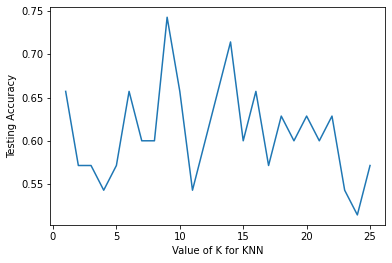
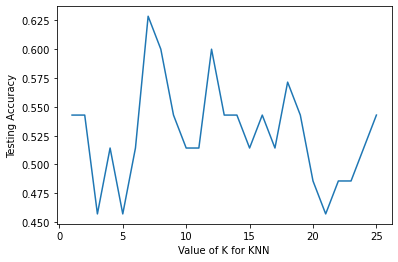
Update documentation

diff --git a/searchindex.js b/searchindex.js
@@ -1,1 +1,1 @@
-Search.setIndex({docnames:["Tugas1","Tugas2","Tugas3","Tugas4","Tugas5","Tugas6","UTS","intro","markdown","markdown-notebooks","notebooks"],envversion:{"sphinx.domains.c":2,"sphinx.domains.changeset":1,"sphinx.domains.citation":1,"sphinx.domains.cpp":5,"sphinx.domains.index":1,"sphinx.domains.javascript":2,"sphinx.domains.math":2,"sphinx.domains.python":3,"sphinx.domains.rst":2,"sphinx.domains.std":2,"sphinx.ext.intersphinx":1,"sphinxcontrib.bibtex":9,sphinx:56},filenames:["Tugas1.ipynb","Tugas2.ipynb","Tugas3.ipynb","Tugas4.ipynb","Tugas5.ipynb","Tugas6.ipynb","UTS.ipynb","intro.md","markdown.md","markdown-notebooks.md","notebooks.ipynb"],objects:{},objnames:{},objtypes:{},terms:{"0":[0,1,2,3,4,5,6,10],"000":3,"009651":6,"06405":6,"1":[1,2,3,4,5,6,7,10],"10":[0,2,6,10],"100":[0,2,3,10],"101":[0,2],"102":[0,2],"103":[0,2],"104":[0,2],"105":[0,2],"106":[0,2],"107":[0,2],"108":[0,2],"109":[0,2],"11":[0,2,3,6],"110":[0,2],"111":[0,2,6],"111111":6,"112":[0,2,6],"113":[0,2,6],"114":[0,2,6],"115":[0,2,6],"116":[0,2,6],"117":[0,2],"118":[0,2],"119":[0,2],"12":[0,1,2,6],"120":[0,2],"1206":6,"1207":6,"1208":6,"1209":6,"121":[0,2],"1210":6,"122":[0,2],"123":[0,2],"124":[0,2],"124670":6,"125":[0,2],"126":[0,2],"127":[0,2],"128":[0,2],"129":[0,2],"13":[0,2,6],"14":[0,2,6],"145":1,"146":1,"147":1,"148":1,"149":1,"15":[0,2,6],"150":[0,1,2],"16":[0,2,3,6],"169560":6,"17":[0,2,6],"18":[0,2,3,6],"19":[0,2,6],"19680801":10,"2":[0,2,3,4,5,6,7,9],"20":[0,2,6],"2014":8,"21":[0,2,6],"214":[0,2],"22":[0,2,6],"220":6,"226":6,"23":[0,2,6],"24":[0,2,6],"25":[0,2,6],"26":[0,2,6],"27":[0,2],"27715":6,"28":[0,2],"29":[0,2],"296":1,"2989999999999995":1,"3":[0,1,3,4,5,6,7],"30":[0,2,6],"300":6,"31":[0,2],"32":[0,2],"33":[0,2],"33333333":[0,2],"34":[0,2],"35":[0,1,2,6],"36":[0,2],"367521":6,"37":[0,2],"37648":6,"38":[0,2],"39":[0,1,2],"390143b688c7":6,"3f":3,"4":[0,1,2,4,5,6,7,9,10],"40":[0,2],"41":[0,1,2],"417":6,"418":[0,2],"42":[0,2],"42857142857142855":[],"429285":6,"43":[0,1,2],"432040":6,"44":[0,2],"45":[0,1,2],"451":6,"45714285714285713":[],"46":[0,2],"467409":6,"468":6,"47":[0,2],"48":[0,2,6],"4857142857142857":[],"49":[0,2],"498":6,"5":[0,1,2,3,5,6,7,10],"50":[0,1,2],"500000":6,"51":[0,2],"5142857142857142":6,"52":[0,2],"53":[0,2],"54":[0,2],"5428571428571428":6,"549":6,"55":[0,2],"554":6,"56":[0,2],"56666667":[0,2],"57":[0,2],"5714285714285714":6,"57635":6,"58":[0,2],"59":[0,2],"6":[0,1,2,3,4,6,7],"60":[0,2,6],"60666667":[0,2],"61":[0,2],"612725":6,"62":[0,2],"62666667":[0,2],"6285714285714286":6,"63":[0,2],"63333333":[0,2],"64":[0,2],"64666667":[0,2],"65":[0,2],"651":[0,2],"6571428571428571":6,"66":[0,2],"67":[0,2],"68":[0,2,6],"6857142857142857":[],"69":[0,2],"690495":6,"697":6,"6994":6,"6f9306ad21398ea43cba4f7d537619d0e07d5ae3":[0,1,2],"7":[0,1,2,3,4,5,6],"70":[0,2,6],"702400":6,"706897":6,"707":6,"71":[0,2],"7142857142857143":6,"72":[0,2],"729":[0,2],"73":[0,2],"74":[0,2],"7428571428571429":6,"75":[0,2],"76":[0,2],"761":[0,2],"76600":6,"77":[0,2,6],"773":6,"774":[0,2],"78":[0,2],"786":6,"79":[0,2],"8":[0,1,2,6],"80":[0,2],"805386":6,"8071":6,"81":[0,2,6],"819240":6,"82":[0,2,6],"83":[0,2,6],"84":[0,2],"8438":6,"85":[0,2,6],"858":6,"859":6,"86":[0,2,6],"860":6,"861":6,"862":6,"87":[0,2],"87333333":[0,2],"88":[0,2],"8827":6,"8836201":[0,1,2],"88666667":[0,2],"89":[0,2],"89333333":[0,2],"9":[0,1,2,3,4,5,6],"90":[0,2],"90666667":[0,2],"91":[0,2,6],"91333333":[0,2],"92":[0,2,6],"920":6,"92666667":[0,2],"928":6,"93":[0,2],"93333333":[0,2],"9393":6,"94":[0,2],"94666667":[0,2],"95":[0,2],"95333333":[0,2],"96":[0,2],"9666666666666667":[0,2],"9666666666666668":[0,2],"96666667":[0,2],"97":[0,2],"972":[0,2],"97333333":[0,2],"98":[0,2],"9800000000000001":[0,2],"99":[0,2],"99585":6,"\ud835\udeba_i":[],"class":[1,3],"default":9,"do":[8,10],"function":8,"import":[0,1,2,3,4,5,6,10],"new":[0,2],"return":[0,2],"true":[3,6],A:1,As:10,But:10,For:[8,10],If:9,In:8,It:[7,8],One:[0,2],That:9,The:[0,2,8,9],There:10,With:9,_base:[0,2],_classif:[0,2],_export:6,_n:5,_passthrough_scor:[0,2],_score:[0,2],_scorer:[0,2],_search:[0,2],_valid:[0,2],about:[8,9,10],acc_gaussian:3,accept:8,accuraci:[0,2,3,6],accuracy_na:3,accuracy_nb:3,accuracy_scor:[0,2,3,6],ada:6,adalah:[1,6],add_:10,adiponectin:6,ag:6,akan:6,akura:6,akurasi:6,algoritma:6,align:10,all:[0,2,8,9],all_or_ani:6,allow:8,also:[8,9,10],an:[6,8],analisa:6,ani:[7,9],antara:3,append:6,ar:[0,2,8,9],arang:[0,2],archiv:6,arg:[0,2],arrai:[0,2,3,10],atau:6,atribut:[1,6],attribut:6,aturan:6,auditori:8,australia:8,averag:[0,2,3],ax:10,b:1,bagi:6,baik:6,banyak:6,banyaknya:1,baru:6,base:[0,2,6,9],basi:1,bata:1,bay:7,beberapa:1,been:[0,1,2,3,4],begin:10,begitu:6,being:8,bentuk:6,bersyarat:6,bertip:1,best_params_:[0,2],best_score_:[0,2],between:6,biaya:6,bib:8,bibliographi:8,bibtex:8,block:9,bmi:6,book:[1,6,8,9,10],both:8,box:8,breast:6,brian:8,brisban:8,build:8,built:9,bundl:7,c:1,cabang:6,call:[0,2,6,8],can:[8,9,10],cancer:6,cancer_tre:6,cara:6,carilah:1,categori:[0,2],check:[0,1,2,3,4,7,10],check_is_fit:6,christoph:8,cite:8,class_nam:6,classif:6,classifi:[0,2,6],classification_report:3,clf:6,cluster:7,cm:[3,10],cmap:10,code:[8,9],cognit:8,coimbra:6,cold:10,color:10,column:[0,1,2,3,6],com:[0,1,2],command:9,commonmark:8,confer:8,confus:3,confusion_matrix:3,content:[3,4,5,6,7,8,9],convert:9,coolwarm:10,cortex:8,covert:6,creat:[0,2,10],cross_val_scor:[0,2,3],csv:[0,1,2,3,4,5,6],custom_lin:10,cut:1,cv:[0,2],cv_score:[0,2],cycler:10,d:[0,1,2,9],dalam:6,dan:[1,3,6],dapat:6,dari:[1,6],data:[0,1,2,3,4,5,6,10],data_kp:6,datafram:[0,2],datamin:[3,4,5,6],datar2:6,dataset:[0,2,6],daya:6,de:8,decis:7,decision_tre:6,decisiontreeclassifi:[3,6],defin:9,dengan:[1,6],depend:8,depth:7,desis:6,detail:[0,2,9],df:[0,2,3,4,5],di:6,diata:6,dibagian:6,dictionari:[0,2],differ:8,dijalankan:6,dilakukan:1,dilaporkan:6,dilihat:6,direct:9,diskritisasi:7,displai:9,dissimilar:7,dist:[0,2,6],diupload:[1,6],document:[7,8,9,10],doe:[6,7],dollar:10,dot:6,drive:[3,4,5,6],drop:[0,2,3],dtype:[0,1,2,6],e_initi:1,e_new:1,each:[0,2],ecosystem:8,edu:6,emb:10,end:10,ensembl:3,entropi:1,escap:10,estim:[0,2,6],etc:10,evid:8,exampl:[8,10],except:[0,2],execut:9,expect:[0,2],export_graphviz:6,extens:8,f1:3,f1_score:3,f:1,fail:[0,2],fals:6,featur:6,feature_nam:6,feel:7,few:7,fig:10,figsiz:10,file:[0,2,6,7,9],fill:6,finit:[0,2],first:[0,2],fit:[0,2,3,6],fit_transform:3,fitur:[3,6],fix:10,flavor:8,folder:6,follow:[8,9],fontnam:6,format:[0,2],from:[0,2,3,6,10],frontier:8,fungsi:6,gain:1,gambar:6,gaussian:3,gaussiannb:3,get:[8,9],gist:[0,1,2],github:[1,6],githubusercont:[0,1,2],give:7,glucos:6,go:7,graph:6,gridsearch:[0,2],gridsearchcv:[0,2],guid:10,gunakan:6,ha:[0,1,2,3,4],hasattr:6,hasil:6,have:[6,9],hdhpk14:8,head:[0,2,3,4,5,6],heer:8,help:8,here:[8,10],holdgraf:8,holdgraf_evidence_2014:8,homa:6,hot:10,how:[7,9],html:10,http:[0,1,2,6],human:8,i:1,ic:6,id:[3,4,5],ii:10,iloc:3,imag:[6,10],implementasi:6,impur:6,includ:[9,10],inform:[7,9,10],informasi:1,init:9,inlin:[6,8],inplac:3,input:[6,8],insert:8,instanc:6,instruct:9,insulin:6,int64:[1,6],interact:10,intern:8,ion:10,ipynb:8,ipython:6,iri:[0,1,2,3,4,5],iris_tre:6,jika:6,jumlah:1,jupyt:[1,6,8,9,10],jupyterbook:8,jupytext:9,just:8,k:[1,6,7],k_rang:6,kanker:6,karena:6,kategorik:1,ke:6,kedekatan:6,keep:10,kemiripan:6,kemudian:6,kemungkinan:6,keputusan:6,kernel:9,ketidakpastian:1,ketika:6,kfold:3,kind:8,kiri:6,klasifikasi:[6,7],klassifikasi:1,kneighbor:[0,2],kneighborsclassifi:[0,2,3,6],knight:8,knn2:[0,2],knn:[0,2,7],knn_cv:[0,2],knn_gscv:[0,2],kolom:1,konsekuensi:6,konsepnya:6,kwarg:[0,2],la_:10,label:6,labelencod:3,lain:6,lakukan:[1,6],langkah:6,languag:8,last:[0,2,6],lb:3,learn:6,leaves_parallel:6,lebih:6,legend:10,length:[0,1,2,6],leptin:6,let:9,lib:[0,2,6],like:[8,9],line2d:10,line:[0,2,8,9,10],linear_model:3,linearsvc:3,link:1,linspac:10,ll:8,local:[0,2,6],log_2:1,logisticregress:3,logspac:10,lot:[8,10],lw:10,machin:6,major:7,maka:6,make:10,make_scor:3,mani:[8,9],markdown:[],markdownfil:9,markedli:8,markup:8,math:10,matplotlib:[6,10],matrix:3,max:1,max_depth:6,maxdata:1,mbox:10,mcp:6,md:[8,9],mean:[0,2,7,10],medium:10,melatih:6,melihat:6,meliputi:6,membaca:[5,6],membagi:6,membuat:6,memecah:3,memisahkan:6,memodelkan:6,memperhatikan:6,menampilkan:[5,6],mencari:6,mengarah:6,mengecek:6,menggunakan:6,mengkategorikan:1,mengubah:1,mengubahnya:6,menguntungkan:6,menjadi:[1,6],menunjukkan:1,menyajikan:6,menyimpannya:6,metod:7,metric:[0,2,3,6],mewakili:6,micro:3,min:1,mindata:1,ml:6,model:[0,2,3,6],model_select:[0,2,3,6],modul:6,more:[0,2,7,9,10],moreov:8,most:[0,2,6,8],msg:6,must:8,mydriv:[3,4,5,6],myst:[],n:[1,3,8,10],n_neighbor:[0,2,6],n_sampl:[0,2],n_samples_fit:[0,2],naiv:7,naive_bay:3,nama:6,name:[1,6],nan:[0,2],need:9,neigh_dist:[0,2],neigh_ind:[0,2],neighbor:[0,2,3,6],netj:[0,1,2],neurosci:8,nilai:1,node_id:6,non:[0,2],none:6,note:8,notebook:8,np:[0,1,2,10],numerik:1,numpi:[0,1,2,10],object:[0,2],objek:6,off:[7,8,9],one:8,org:8,other:9,our:[0,2],out:[7,10],out_fil:6,output:9,overview:8,own_fil:6,p_i:[1,5],packag:[0,2,6],pada:6,page:[7,8,9],panda:[0,1,2,3,4,5,6],param_grid:[0,2],paramet:[0,2],particular:7,partit:[0,2],paslei:8,path:9,pd:[0,1,2,3,4,5,6],pengambilan:6,pengecekan:6,perform:[0,2],pernyataan:6,perubahan:1,petal:[0,1,2],petallengthcm:[3,4,5],petalwidthcm:[3,4,5],plot:[6,10],plt:[6,10],pohon:6,post:10,power:8,precis:[3,6],precision_na:3,precision_scor:3,predict:[0,2,3,6,8],prediksi:6,preprocess:3,presenc:9,print:[0,2,3,6,9],prop_cycl:10,properli:[0,1,2,3,4,8],proport:6,prose:[1,6],purpos:8,py:[0,2,6],pyplot:[6,10],python3:[0,2,6],q:1,qcut:1,rais:6,ramsai:8,randn:10,random:10,random_st:[0,2,3],randomforestclassifi:3,rang:[6,10],raw:[0,1,2],rcparam:10,read:[0,1,2,3,4],read_csv:[0,1,2,3,4,5,6],recal:3,recall_na:3,recall_scor:3,recent:[0,2,6],refer:8,regular:8,relationship:6,remov:[0,2],render:8,rentangnya:1,reproduc:10,resiko:6,resistin:6,rest:9,return_str:6,robert:8,rotat:6,round:[3,6],row:1,rumu:5,run:9,s:[6,8,9,10],sama:1,same:8,sampai:6,sampl:[7,10],sample_weight:[0,2],score:[0,2,3,6],score_na:3,scorer:[0,2],scores_list:6,sebelah:6,sebuah:6,see:[7,8,9,10],seed:10,sehingga:1,select:3,self:[0,2],sepal:[0,1,2],sepallengthcm:[3,4,5],sepalwidthcm:[3,4,5],separ:[0,2],seperangkat:6,seperti:6,serv:8,set:[0,2,6],setelah:6,setosa:[0,1,2,3,4,5],sgdclassifi:3,shape:[0,2,6],should:9,show:[0,2,7,8,9],sigma_1:5,sign:10,similar:8,simpl:8,sklearn:[0,2,3,6],slight:8,small:[7,8],so:9,some:[7,8,10],span:8,speci:[3,4,5],special:8,special_charact:6,specif:8,sphinx:8,split:[0,2,3],stand:8,start:[8,9],starter:8,state:10,stati:1,store:8,stratifi:[0,2],structur:[7,8],struktur:6,subplot:10,sumber:6,support:9,sure:10,svc:3,svm:3,syntax:8,t:[8,10],target:[0,2],terata:[5,6],terdekat:6,terhadap:6,tersebut:1,tertinggi:6,test:[0,2,3,6],test_siz:[0,2,3,6],tetangga:6,tex:10,text:[6,8,9],thei:8,them:[0,2],thi:[0,2,7,8,9,10],thing:9,those:8,tidak:6,tingkatan:1,tool:8,top:[0,2,9],topic:7,traceback:[0,2],train:[0,2,3,6],train_test_split:[0,2,3,6],treat:9,tree:[3,7],tuga:6,two:[8,9],type:7,typeerror:6,typeerrortraceback:6,uci:6,ukuran:1,understand:9,unduh:6,untuk:6,us:[0,1,2,3,4,8,9],userwarn:[0,2,6],usr:[0,2,6],ut:7,util:6,utilita:6,v_i:1,valid:6,valu:[0,2,3,6],value_count:1,valueerror:[0,2],variabel:6,variabl:[0,2],variat:8,varieti:[0,1,2],versicolor:[0,2],view:[0,2],virginica:[0,1,2],w:1,wa:6,want:[0,2,10],we:[0,2],web:1,well:[7,10],wendi:8,when:[8,9],wherea:8,whether:8,which:9,width:[0,2],work:10,write:[8,9],written:[8,9],x:[0,1,2,3,6],x_max:1,x_min:1,x_new:6,x_test:[0,2,3,6],x_train:[0,2,3,6],xlabel:6,y:[0,2,3],y_pred:[3,6],y_predict:6,y_test:[0,2,3,6],y_train:[0,2,3,6],yang:[1,6],ylabel:6,you:[7,8,9,10],your:[8,9,10]},titles:["Dissimilarity (Tugas 1)","Diskritisasi (Tugas 2)","Klasifikasi (Tugas 3)","Naive Bayes (Tugas 4)","K-Means Clustering (Tugas 5)","Decision Tree (Tugas 6)","<strong>UTS</strong>","Welcome to your Jupyter Book","Markdown Files","Notebooks with MyST Markdown","Content with notebooks"],titleterms:{"1":0,"2":1,"3":2,"4":3,"5":4,"6":5,add:9,an:9,bay:3,bin:1,block:10,book:7,cell:9,citat:8,cluster:4,code:10,content:10,creat:9,decis:[5,6],direct:8,diskritisasi:1,dissimilar:0,entrophi:1,equal:1,exampl:9,file:8,frequenc:1,gini:5,index:5,interv:1,jupyt:7,k:4,klasifikasi:2,knn:6,learn:8,markdown:[8,9,10],mean:4,metadata:9,metod:6,more:8,myst:[8,9,10],naiv:3,notebook:[9,10],output:10,quickli:9,role:8,sampl:8,soal:6,tree:[5,6],tuga:[0,1,2,3,4,5,7],ut:6,welcom:7,what:8,width:1,yaml:9,your:7}})
+Search.setIndex({docnames:["Tugas1","Tugas2","Tugas3","Tugas4","Tugas5","Tugas6","UTS","intro","markdown","markdown-notebooks","notebooks"],envversion:{"sphinx.domains.c":2,"sphinx.domains.changeset":1,"sphinx.domains.citation":1,"sphinx.domains.cpp":5,"sphinx.domains.index":1,"sphinx.domains.javascript":2,"sphinx.domains.math":2,"sphinx.domains.python":3,"sphinx.domains.rst":2,"sphinx.domains.std":2,"sphinx.ext.intersphinx":1,"sphinxcontrib.bibtex":9,sphinx:56},filenames:["Tugas1.ipynb","Tugas2.ipynb","Tugas3.ipynb","Tugas4.ipynb","Tugas5.ipynb","Tugas6.ipynb","UTS.ipynb","intro.md","markdown.md","markdown-notebooks.md","notebooks.ipynb"],objects:{},objnames:{},objtypes:{},terms:{"0":[0,1,2,3,4,5,6,10],"000":3,"009651":6,"06405":6,"1":[1,2,3,4,5,6,7,10],"10":[0,2,6,10],"100":[0,2,3,10],"101":[0,2],"102":[0,2],"103":[0,2],"104":[0,2],"105":[0,2],"106":[0,2],"107":[0,2],"108":[0,2],"109":[0,2],"11":[0,2,3,6],"110":[0,2],"111":[0,2,6],"111111":6,"112":[0,2,6],"113":[0,2,6],"114":[0,2,6],"115":[0,2,6],"116":[0,2,6],"117":[0,2],"118":[0,2],"119":[0,2],"12":[0,1,2,6],"120":[0,2],"1206":6,"1207":6,"1208":6,"1209":6,"121":[0,2],"1210":6,"122":[0,2],"123":[0,2],"124":[0,2],"124670":6,"125":[0,2],"126":[0,2],"127":[0,2],"128":[0,2],"129":[0,2],"13":[0,2,6],"14":[0,2,6],"145":1,"146":1,"147":1,"148":1,"149":1,"15":[0,2,6],"150":[0,1,2],"16":[0,2,3,6],"169560":6,"17":[0,2,6],"18":[0,2,3,6],"19":[0,2,6],"19680801":10,"2":[0,2,3,4,5,6,7,9],"20":[0,2,6],"2014":8,"21":[0,2,6],"214":[0,2],"22":[0,2,6],"220":6,"226":6,"23":[0,2,6],"24":[0,2,6],"25":[0,2,6],"26":[0,2,6],"27":[0,2],"27715":6,"28":[0,2],"29":[0,2],"296":1,"2989999999999995":1,"3":[0,1,3,4,5,6,7],"30":[0,2,6],"300":6,"31":[0,2],"32":[0,2],"33":[0,2],"33333333":[0,2],"34":[0,2],"35":[0,1,2,6],"36":[0,2],"367521":6,"37":[0,2],"37648":6,"38":[0,2],"39":[0,1,2],"390143b688c7":6,"3f":3,"4":[0,1,2,4,5,6,7,9,10],"40":[0,2],"41":[0,1,2],"417":6,"418":[0,2],"42":[0,2],"42857142857142855":[],"429285":6,"43":[0,1,2],"432040":6,"44":[0,2],"45":[0,1,2],"451":6,"45714285714285713":6,"46":[0,2],"467409":6,"468":6,"47":[0,2],"48":[0,2,6],"4857142857142857":6,"49":[0,2],"498":6,"5":[0,1,2,3,5,6,7,10],"50":[0,1,2],"500000":6,"51":[0,2],"5142857142857142":6,"52":[0,2],"53":[0,2],"54":[0,2],"5428571428571428":6,"549":6,"55":[0,2],"554":6,"56":[0,2],"56666667":[0,2],"57":[0,2],"5714285714285714":6,"57635":6,"58":[0,2],"59":[0,2],"6":[0,1,2,3,4,6,7],"60":[0,2,6],"60666667":[0,2],"61":[0,2],"612725":6,"62":[0,2],"62666667":[0,2],"6285714285714286":6,"63":[0,2],"63333333":[0,2],"64":[0,2],"64666667":[0,2],"65":[0,2],"651":[0,2],"6571428571428571":[],"66":[0,2],"67":[0,2],"68":[0,2,6],"6857142857142857":[],"69":[0,2],"690495":6,"697":6,"6994":6,"6f9306ad21398ea43cba4f7d537619d0e07d5ae3":[0,1,2],"7":[0,1,2,3,4,5,6],"70":[0,2,6],"702400":6,"706897":6,"707":6,"71":[0,2],"7142857142857143":[],"72":[0,2],"729":[0,2],"73":[0,2],"74":[0,2],"7428571428571429":[],"75":[0,2],"76":[0,2],"761":[0,2],"76600":6,"77":[0,2,6],"773":6,"774":[0,2],"78":[0,2],"786":6,"79":[0,2],"8":[0,1,2,6],"80":[0,2],"805386":6,"8071":6,"81":[0,2,6],"819240":6,"82":[0,2,6],"83":[0,2,6],"84":[0,2],"8438":6,"85":[0,2,6],"858":6,"859":6,"86":[0,2,6],"860":6,"861":6,"862":6,"87":[0,2],"87333333":[0,2],"88":[0,2],"8827":6,"8836201":[0,1,2],"88666667":[0,2],"89":[0,2],"89333333":[0,2],"9":[0,1,2,3,4,5,6],"90":[0,2],"90666667":[0,2],"91":[0,2,6],"91333333":[0,2],"92":[0,2,6],"920":6,"92666667":[0,2],"928":6,"93":[0,2],"93333333":[0,2],"9393":6,"94":[0,2],"94666667":[0,2],"95":[0,2],"95333333":[0,2],"96":[0,2],"9666666666666667":[0,2],"9666666666666668":[0,2],"96666667":[0,2],"97":[0,2],"972":[0,2],"97333333":[0,2],"98":[0,2],"9800000000000001":[0,2],"99":[0,2],"99585":6,"\ud835\udeba_i":[],"class":[1,3],"default":9,"do":[8,10],"function":8,"import":[0,1,2,3,4,5,6,10],"new":[0,2],"return":[0,2],"true":[3,6],A:1,As:10,But:10,For:[8,10],If:9,In:8,It:[7,8],One:[0,2],That:9,The:[0,2,8,9],There:10,With:9,_base:[0,2],_classif:[0,2],_export:6,_n:5,_passthrough_scor:[0,2],_score:[0,2],_scorer:[0,2],_search:[0,2],_valid:[0,2],about:[8,9,10],acc_gaussian:3,accept:8,accuraci:[0,2,3,6],accuracy_na:3,accuracy_nb:3,accuracy_scor:[0,2,3,6],ada:6,adalah:[1,6],add_:10,adiponectin:6,ag:6,akan:6,akura:6,akurasi:6,algoritma:6,align:10,all:[0,2,8,9],all_or_ani:6,allow:8,also:[8,9,10],an:[6,8],analisa:6,ani:[7,9],antara:3,append:6,ar:[0,2,8,9],arang:[0,2],archiv:6,arg:[0,2],arrai:[0,2,3,10],atau:6,atribut:[1,6],attribut:6,aturan:6,auditori:8,australia:8,averag:[0,2,3],ax:10,b:1,bagi:6,baik:6,banyak:6,banyaknya:1,baru:6,base:[0,2,6,9],basi:1,bata:1,bay:7,beberapa:1,been:[0,1,2,3,4],begin:10,begitu:6,being:8,bentuk:6,bersyarat:6,bertip:1,best_params_:[0,2],best_score_:[0,2],between:6,biaya:6,bib:8,bibliographi:8,bibtex:8,block:9,bmi:6,book:[1,6,8,9,10],both:8,box:8,breast:6,brian:8,brisban:8,build:8,built:9,bundl:7,c:1,cabang:6,call:[0,2,6,8],can:[8,9,10],cancer:6,cancer_tre:6,cara:6,carilah:1,categori:[0,2],check:[0,1,2,3,4,7,10],check_is_fit:6,christoph:8,cite:8,class_nam:6,classif:6,classifi:[0,2,6],classification_report:3,clf:6,cluster:7,cm:[3,10],cmap:10,code:[8,9],cognit:8,coimbra:6,cold:10,color:10,column:[0,1,2,3,6],com:[0,1,2],command:9,commonmark:8,confer:8,confus:3,confusion_matrix:3,content:[3,4,5,6,7,8,9],convert:9,coolwarm:10,cortex:8,covert:6,creat:[0,2,10],cross_val_scor:[0,2,3],csv:[0,1,2,3,4,5,6],custom_lin:10,cut:1,cv:[0,2],cv_score:[0,2],cycler:10,d:[0,1,2,9],dalam:6,dan:[1,3,6],dapat:6,dari:[1,6],data:[0,1,2,3,4,5,6,10],data_kp:6,datafram:[0,2],datamin:[3,4,5,6],datar2:6,dataset:[0,2,6],daya:6,de:8,decis:7,decision_tre:6,decisiontreeclassifi:[3,6],defin:9,dengan:[1,6],depend:8,depth:7,desis:6,detail:[0,2,9],df:[0,2,3,4,5],di:6,diata:6,dibagian:6,dictionari:[0,2],differ:8,dijalankan:6,dilakukan:1,dilaporkan:6,dilihat:6,direct:9,diskritisasi:7,displai:9,dissimilar:7,dist:[0,2,6],diupload:[1,6],document:[7,8,9,10],doe:[6,7],dollar:10,dot:6,drive:[3,4,5,6],drop:[0,2,3],dtype:[0,1,2,6],e_initi:1,e_new:1,each:[0,2],ecosystem:8,edu:6,emb:10,end:10,ensembl:3,entropi:1,escap:10,estim:[0,2,6],etc:10,evid:8,exampl:[8,10],except:[0,2],execut:9,expect:[0,2],export_graphviz:6,extens:8,f1:3,f1_score:3,f:1,fail:[0,2],fals:6,featur:6,feature_nam:6,feel:7,few:7,fig:10,figsiz:10,file:[0,2,6,7,9],fill:6,finit:[0,2],first:[0,2],fit:[0,2,3,6],fit_transform:3,fitur:[3,6],fix:10,flavor:8,folder:6,follow:[8,9],fontnam:6,format:[0,2],from:[0,2,3,6,10],frontier:8,fungsi:6,gain:1,gambar:6,gaussian:3,gaussiannb:3,get:[8,9],gist:[0,1,2],github:[1,6],githubusercont:[0,1,2],give:7,glucos:6,go:7,graph:6,gridsearch:[0,2],gridsearchcv:[0,2],guid:10,gunakan:6,ha:[0,1,2,3,4],hasattr:6,hasil:6,have:[6,9],hdhpk14:8,head:[0,2,3,4,5,6],heer:8,help:8,here:[8,10],holdgraf:8,holdgraf_evidence_2014:8,homa:6,hot:10,how:[7,9],html:10,http:[0,1,2,6],human:8,i:1,ic:6,id:[3,4,5],ii:10,iloc:3,imag:[6,10],implementasi:6,impur:6,includ:[9,10],inform:[7,9,10],informasi:1,init:9,inlin:[6,8],inplac:3,input:[6,8],insert:8,instanc:6,instruct:9,insulin:6,int64:[1,6],interact:10,intern:8,ion:10,ipynb:8,ipython:6,iri:[0,1,2,3,4,5],iris_tre:6,jika:6,jumlah:1,jupyt:[1,6,8,9,10],jupyterbook:8,jupytext:9,just:8,k:[1,6,7],k_rang:6,kanker:6,karena:6,kategorik:1,ke:6,kedekatan:6,keep:10,kemiripan:6,kemudian:6,kemungkinan:6,keputusan:6,kernel:9,ketidakpastian:1,ketika:6,kfold:3,kind:8,kiri:6,klasifikasi:[6,7],klassifikasi:1,kneighbor:[0,2],kneighborsclassifi:[0,2,3,6],knight:8,knn2:[0,2],knn:[0,2],knn_cv:[0,2],knn_gscv:[0,2],kolom:1,konsekuensi:6,konsepnya:6,kwarg:[0,2],la_:10,label:6,labelencod:3,lain:6,lakukan:[1,6],langkah:6,languag:8,last:[0,2,6],lb:3,learn:6,leaves_parallel:6,lebih:6,legend:10,length:[0,1,2,6],leptin:6,let:9,lib:[0,2,6],like:[8,9],line2d:10,line:[0,2,8,9,10],linear_model:3,linearsvc:3,link:1,linspac:10,ll:8,local:[0,2,6],log_2:1,logisticregress:3,logspac:10,lot:[8,10],lw:10,machin:6,major:7,maka:6,make:10,make_scor:3,mani:[8,9],markdown:[],markdownfil:9,markedli:8,markup:8,math:10,matplotlib:[6,10],matrix:3,max:1,max_depth:6,maxdata:1,mbox:10,mcp:6,md:[8,9],mean:[0,2,7,10],medium:10,melatih:6,melihat:6,meliputi:6,membaca:[5,6],membagi:6,membuat:6,memecah:3,memisahkan:6,memodelkan:6,memperhatikan:6,menampilkan:[5,6],mencari:6,mengarah:6,mengecek:6,menggunakan:6,mengkategorikan:1,mengubah:1,mengubahnya:6,menguntungkan:6,menjadi:[1,6],menunjukkan:1,menyajikan:6,menyimpannya:6,metod:[],metric:[0,2,3,6],mewakili:6,micro:3,min:1,mindata:1,ml:6,model:[0,2,3,6],model_select:[0,2,3,6],modul:6,more:[0,2,7,9,10],moreov:8,most:[0,2,6,8],msg:6,must:8,mydriv:[3,4,5,6],myst:[],n:[1,3,8,10],n_neighbor:[0,2,6],n_sampl:[0,2],n_samples_fit:[0,2],naiv:7,naive_bay:3,nama:6,name:[1,6],nan:[0,2],need:9,neigh_dist:[0,2],neigh_ind:[0,2],neighbor:[0,2,3,6],netj:[0,1,2],neurosci:8,nilai:1,node_id:6,non:[0,2],none:6,note:8,notebook:8,np:[0,1,2,10],numerik:1,numpi:[0,1,2,10],object:[0,2],objek:6,off:[7,8,9],one:8,org:8,other:9,our:[0,2],out:[7,10],out_fil:6,output:9,overview:8,own_fil:6,p_i:[1,5],packag:[0,2,6],pada:6,page:[7,8,9],panda:[0,1,2,3,4,5,6],param_grid:[0,2],paramet:[0,2],particular:7,partit:[0,2],paslei:8,path:9,pd:[0,1,2,3,4,5,6],pengambilan:6,pengecekan:6,perform:[0,2],pernyataan:6,perubahan:1,petal:[0,1,2],petallengthcm:[3,4,5],petalwidthcm:[3,4,5],plot:[6,10],plt:[6,10],pohon:6,post:10,power:8,precis:[3,6],precision_na:3,precision_scor:3,predict:[0,2,3,6,8],prediksi:6,preprocess:3,presenc:9,print:[0,2,3,6,9],prop_cycl:10,properli:[0,1,2,3,4,8],proport:6,prose:[1,6],purpos:8,py:[0,2,6],pyplot:[6,10],python3:[0,2,6],q:1,qcut:1,rais:6,ramsai:8,randn:10,random:10,random_st:[0,2,3],randomforestclassifi:3,rang:[6,10],raw:[0,1,2],rcparam:10,read:[0,1,2,3,4],read_csv:[0,1,2,3,4,5,6],recal:3,recall_na:3,recall_scor:3,recent:[0,2,6],refer:8,regular:8,relationship:6,remov:[0,2],render:8,rentangnya:1,reproduc:10,resiko:6,resistin:6,rest:9,return_str:6,robert:8,rotat:6,round:[3,6],row:1,rumu:5,run:9,s:[6,8,9,10],sama:1,same:8,sampai:6,sampl:[7,10],sample_weight:[0,2],score:[0,2,3,6],score_na:3,scorer:[0,2],scores_list:6,sebelah:6,sebuah:6,see:[7,8,9,10],seed:10,sehingga:1,select:3,self:[0,2],sepal:[0,1,2],sepallengthcm:[3,4,5],sepalwidthcm:[3,4,5],separ:[0,2],seperangkat:6,seperti:6,serv:8,set:[0,2,6],setelah:6,setosa:[0,1,2,3,4,5],sgdclassifi:3,shape:[0,2,6],should:9,show:[0,2,7,8,9],sigma_1:5,sign:10,similar:8,simpl:8,sklearn:[0,2,3,6],slight:8,small:[7,8],so:9,soal:6,some:[7,8,10],span:8,speci:[3,4,5],special:8,special_charact:6,specif:8,sphinx:8,split:[0,2,3],stand:8,start:[8,9],starter:8,state:10,stati:1,store:8,stratifi:[0,2],structur:[7,8],struktur:6,subplot:10,sumber:6,support:9,sure:10,svc:3,svm:3,syntax:8,t:[8,10],target:[0,2],terata:[5,6],terdekat:6,terhadap:6,tersebut:1,tertinggi:6,test:[0,2,3,6],test_siz:[0,2,3,6],tetangga:6,tex:10,text:[6,8,9],thei:8,them:[0,2],thi:[0,2,7,8,9,10],thing:9,those:8,tidak:6,tingkatan:1,tool:8,top:[0,2,9],topic:7,traceback:[0,2],train:[0,2,3,6],train_test_split:[0,2,3,6],treat:9,tree:[3,7],tuga:6,two:[8,9],type:7,typeerror:6,typeerrortraceback:6,uci:6,ukuran:1,understand:9,unduh:6,untuk:6,us:[0,1,2,3,4,8,9],userwarn:[0,2,6],usr:[0,2,6],ut:7,util:6,utilita:6,v_i:1,valid:6,valu:[0,2,3,6],value_count:1,valueerror:[0,2],variabel:6,variabl:[0,2],variat:8,varieti:[0,1,2],versicolor:[0,2],view:[0,2],virginica:[0,1,2],w:1,wa:6,want:[0,2,10],we:[0,2],web:1,well:[7,10],wendi:8,when:[8,9],wherea:8,whether:8,which:9,width:[0,2],work:10,write:[8,9],written:[8,9],x:[0,1,2,3,6],x_max:1,x_min:1,x_new:6,x_test:[0,2,3,6],x_train:[0,2,3,6],xlabel:6,y:[0,2,3],y_pred:[3,6],y_predict:6,y_test:[0,2,3,6],y_train:[0,2,3,6],yang:[1,6],ylabel:6,you:[7,8,9,10],your:[8,9,10]},titles:["Dissimilarity (Tugas 1)","Diskritisasi (Tugas 2)","Klasifikasi (Tugas 3)","Naive Bayes (Tugas 4)","K-Means Clustering (Tugas 5)","Decision Tree (Tugas 6)","<strong>UTS</strong>","Welcome to your Jupyter Book","Markdown Files","Notebooks with MyST Markdown","Content with notebooks"],titleterms:{"1":0,"2":1,"3":2,"4":3,"5":4,"6":5,add:9,an:9,bay:3,bin:1,block:10,book:7,cell:9,citat:8,cluster:4,code:10,content:10,creat:9,decis:[5,6],direct:8,diskritisasi:1,dissimilar:0,entrophi:1,equal:1,exampl:9,file:8,frequenc:1,gini:5,index:5,interv:1,jupyt:7,k:4,klasifikasi:2,knn:6,learn:8,markdown:[8,9,10],mean:4,metadata:9,metod:6,more:8,myst:[8,9,10],naiv:3,notebook:[9,10],output:10,quickli:9,role:8,sampl:8,soal:[],tree:[5,6],tuga:[0,1,2,3,4,5,7],ut:6,welcom:7,what:8,width:1,yaml:9,your:7}})

diff --git a/UTS.html b/UTS.html
@@ -379,30 +379,14 @@ title="Print to PDF"
     </div>
     <nav id="bd-toc-nav" aria-label="Page">
         <ul class="visible nav section-nav flex-column">
- <li class="toc-h1 nav-item toc-entry">
-  <a class="reference internal nav-link" href="#">
-   <strong>
-    UTS
-   </strong>
-  </a>
-  <ul class="visible nav section-nav flex-column">
-   <li class="toc-h2 nav-item toc-entry">
-    <a class="reference internal nav-link" href="#soal">
-     <strong>
-      SOAL
-     </strong>
-    </a>
-   </li>
-  </ul>
- </li>
- <li class="toc-h1 nav-item toc-entry">
+ <li class="toc-h2 nav-item toc-entry">
   <a class="reference internal nav-link" href="#metode-knn">
    <strong>
     Metode KNN
    </strong>
   </a>
  </li>
- <li class="toc-h1 nav-item toc-entry">
+ <li class="toc-h2 nav-item toc-entry">
   <a class="reference internal nav-link" href="#metode-decision-tree">
    <strong>
     Metode Decision Tree
@@ -428,30 +412,14 @@ title="Print to PDF"
                         </div>
                         <nav aria-label="Page">
                             <ul class="visible nav section-nav flex-column">
- <li class="toc-h1 nav-item toc-entry">
-  <a class="reference internal nav-link" href="#">
-   <strong>
-    UTS
-   </strong>
-  </a>
-  <ul class="visible nav section-nav flex-column">
-   <li class="toc-h2 nav-item toc-entry">
-    <a class="reference internal nav-link" href="#soal">
-     <strong>
-      SOAL
-     </strong>
-    </a>
-   </li>
-  </ul>
- </li>
- <li class="toc-h1 nav-item toc-entry">
+ <li class="toc-h2 nav-item toc-entry">
   <a class="reference internal nav-link" href="#metode-knn">
    <strong>
     Metode KNN
    </strong>
   </a>
  </li>
- <li class="toc-h1 nav-item toc-entry">
+ <li class="toc-h2 nav-item toc-entry">
   <a class="reference internal nav-link" href="#metode-decision-tree">
    <strong>
     Metode Decision Tree
@@ -468,10 +436,9 @@ title="Print to PDF"
                 
               <div>
                 
-  <section class="tex2jax_ignore mathjax_ignore" id="uts">
+  <section id="uts">
 <h1><strong>UTS</strong><a class="headerlink" href="#uts" title="Permalink to this headline">#</a></h1>
-<section id="soal">
-<h2><strong>SOAL</strong><a class="headerlink" href="#soal" title="Permalink to this headline">#</a></h2>
+<p><strong>SOAL</strong></p>
 <p>Lakukan analisa terhadap data pada  <a class="reference external" href="https://archive.ics.uci.edu/ml/datasets/Breast+Cancer+Coimbra">https://archive.ics.uci.edu/ml/datasets/Breast+Cancer+Coimbra</a>  dengan menggunakan klasifikasi</p>
 <ul class="simple">
 <li><p>metode KNN</p></li>
@@ -490,7 +457,7 @@ title="Print to PDF"
 </div>
 <div class="cell_output docutils container">
 <div class="output text_html">
-  <div id="df-28652154-ee38-4164-844d-6b706aab5fa0">
+  <div id="df-ae78d614-ba76-4ffa-82e7-908384815ecc">
     <div class="colab-df-container">
       <div>
 <style scoped>
@@ -591,7 +558,7 @@ title="Print to PDF"
   </tbody>
 </table>
 </div>
-      <button class="colab-df-convert" onclick="convertToInteractive('df-28652154-ee38-4164-844d-6b706aab5fa0')"
+      <button class="colab-df-convert" onclick="convertToInteractive('df-ae78d614-ba76-4ffa-82e7-908384815ecc')"
               title="Convert this dataframe to an interactive table."
               style="display:none;">
 
@@ -642,12 +609,12 @@ title="Print to PDF"
 
       <script>
         const buttonEl =
-          document.querySelector('#df-28652154-ee38-4164-844d-6b706aab5fa0 button.colab-df-convert');
+          document.querySelector('#df-ae78d614-ba76-4ffa-82e7-908384815ecc button.colab-df-convert');
         buttonEl.style.display =
           google.colab.kernel.accessAllowed ? 'block' : 'none';
 
         async function convertToInteractive(key) {
-          const element = document.querySelector('#df-28652154-ee38-4164-844d-6b706aab5fa0');
+          const element = document.querySelector('#df-ae78d614-ba76-4ffa-82e7-908384815ecc');
           const dataTable =
             await google.colab.kernel.invokeFunction('convertToInteractive',
                                                      [key], {});
@@ -725,10 +692,8 @@ Name: Classification, Length: 116, dtype: int64
 </div>
 </div>
 </div>
-</section>
-</section>
-<section class="tex2jax_ignore mathjax_ignore" id="metode-knn">
-<h1><strong>Metode KNN</strong><a class="headerlink" href="#metode-knn" title="Permalink to this headline">#</a></h1>
+<section id="metode-knn">
+<h2><strong>Metode KNN</strong><a class="headerlink" href="#metode-knn" title="Permalink to this headline">#</a></h2>
 <p>KNN adalah algoritma klasifikasi dengan mencari tetangga terdekat dengan memperhatikan kemiripan dan kedekatan dengan data yang lain</p>
 <div class="cell docutils container">
 <div class="cell_input docutils container">
@@ -757,31 +722,31 @@ Name: Classification, Length: 116, dtype: int64
 </div>
 </div>
 <div class="cell_output docutils container">
-<div class="output text_plain highlight-myst-ansi notranslate"><div class="highlight"><pre><span></span>{1: 0.6571428571428571,
- 2: 0.5714285714285714,
- 3: 0.5714285714285714,
- 4: 0.5428571428571428,
- 5: 0.5714285714285714,
- 6: 0.6571428571428571,
- 7: 0.6,
+<div class="output text_plain highlight-myst-ansi notranslate"><div class="highlight"><pre><span></span>{1: 0.5428571428571428,
+ 2: 0.5428571428571428,
+ 3: 0.45714285714285713,
+ 4: 0.5142857142857142,
+ 5: 0.45714285714285713,
+ 6: 0.5142857142857142,
+ 7: 0.6285714285714286,
  8: 0.6,
- 9: 0.7428571428571429,
- 10: 0.6571428571428571,
- 11: 0.5428571428571428,
+ 9: 0.5428571428571428,
+ 10: 0.5142857142857142,
+ 11: 0.5142857142857142,
  12: 0.6,
- 13: 0.6571428571428571,
- 14: 0.7142857142857143,
- 15: 0.6,
- 16: 0.6571428571428571,
- 17: 0.5714285714285714,
- 18: 0.6285714285714286,
- 19: 0.6,
- 20: 0.6285714285714286,
- 21: 0.6,
- 22: 0.6285714285714286,
- 23: 0.5428571428571428,
+ 13: 0.5428571428571428,
+ 14: 0.5428571428571428,
+ 15: 0.5142857142857142,
+ 16: 0.5428571428571428,
+ 17: 0.5142857142857142,
+ 18: 0.5714285714285714,
+ 19: 0.5428571428571428,
+ 20: 0.4857142857142857,
+ 21: 0.45714285714285713,
+ 22: 0.4857142857142857,
+ 23: 0.4857142857142857,
  24: 0.5142857142857142,
- 25: 0.5714285714285714}
+ 25: 0.5428571428571428}
 </pre></div>
 </div>
 </div>
@@ -834,8 +799,8 @@ Name: Classification, Length: 116, dtype: int64
 </div>
 </div>
 </section>
-<section class="tex2jax_ignore mathjax_ignore" id="metode-decision-tree">
-<h1><strong>Metode Decision Tree</strong><a class="headerlink" href="#metode-decision-tree" title="Permalink to this headline">#</a></h1>
+<section id="metode-decision-tree">
+<h2><strong>Metode Decision Tree</strong><a class="headerlink" href="#metode-decision-tree" title="Permalink to this headline">#</a></h2>
 <p>Decision tree adalah algoritma machine learning yang menggunakan seperangkat aturan untuk membuat keputusan dengan struktur seperti pohon yang memodelkan kemungkinan hasil, biaya sumber daya, utilitas dan kemungkinan konsekuensi atau resiko. Konsepnya adalah dengan cara menyajikan algoritma dengan pernyataan bersyarat, yang meliputi cabang untuk mewakili langkah-langkah pengambilan keputusan yang dapat mengarah pada hasil yang menguntungkan.</p>
 <div class="cell docutils container">
 <div class="cell_input docutils container">
@@ -902,11 +867,12 @@ Name: Classification, Length: 116, dtype: int64
 <span class="g g-Whitespace">   </span><span class="mi">1209</span><span class="s2"> </span>
 <span class="g g-Whitespace">   </span><span class="mi">1210</span><span class="s2">     if attributes is not None:</span>
 
-<span class="ne">TypeError</span>: [1 1 1 2 2 1 1 1 1 2 1 1 2 2 1 1 1 1 2 2 1 2 1 2 2 1 1 1 1 1 1 2 2 1 2] is not an estimator instance.
+<span class="ne">TypeError</span>: [2 1 1 2 2 2 1 2 2 1 2 2 2 1 2 2 2 1 2 2 2 2 2 2 1 1 1 2 2 1 2 2 2 1 1] is not an estimator instance.
 </pre></div>
 </div>
 </div>
 </div>
+</section>
 </section>
 
     <script type="text/x-thebe-config">

diff --git a/intro.html b/intro.html
@@ -351,8 +351,6 @@ It does not go in-depth into any particular topic - check out <a class="referenc
 <li class="toctree-l1"><a class="reference internal" href="Tugas5.html">K-Means Clustering (Tugas 5)</a></li>
 <li class="toctree-l1"><a class="reference internal" href="Tugas6.html">Decision Tree (Tugas 6)</a></li>
 <li class="toctree-l1"><a class="reference internal" href="UTS.html"><strong>UTS</strong></a></li>
-<li class="toctree-l1"><a class="reference internal" href="UTS.html#metode-knn"><strong>Metode KNN</strong></a></li>
-<li class="toctree-l1"><a class="reference internal" href="UTS.html#metode-decision-tree"><strong>Metode Decision Tree</strong></a></li>
 </ul>
 </div>
 </section>
